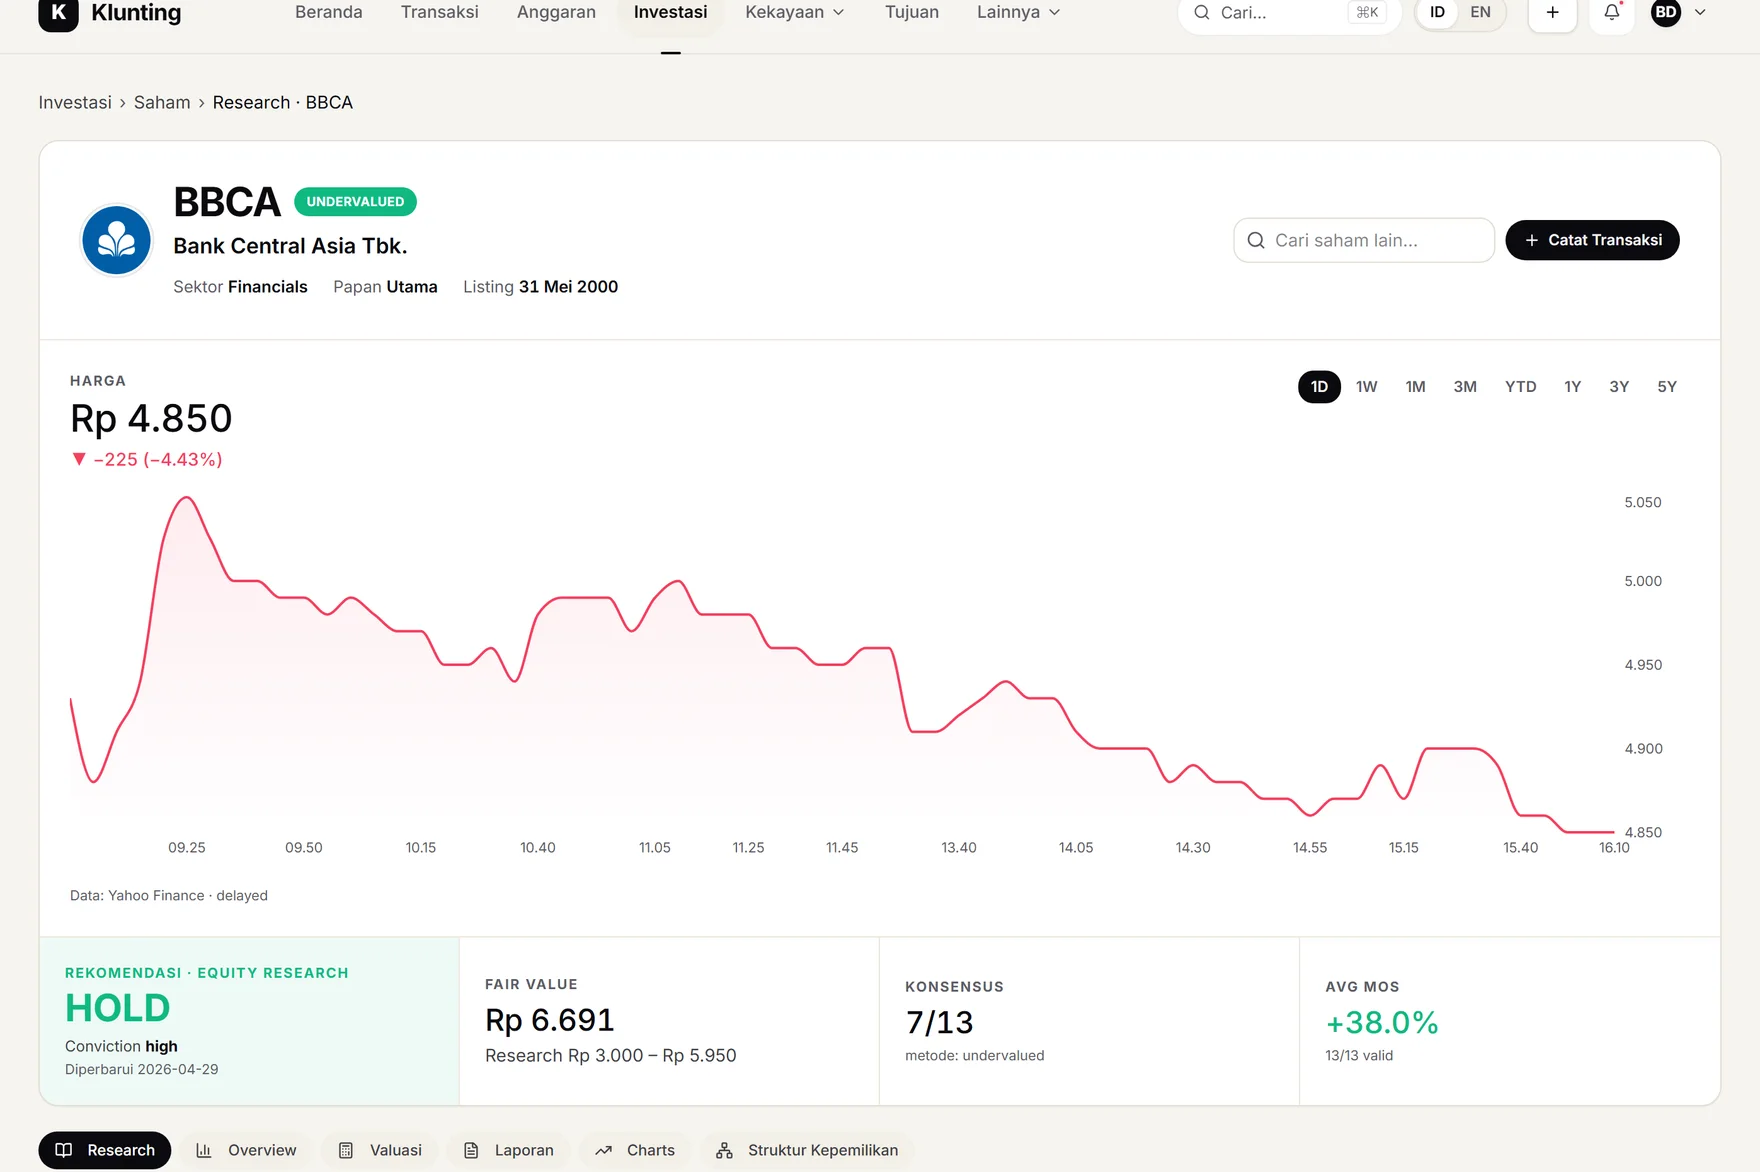
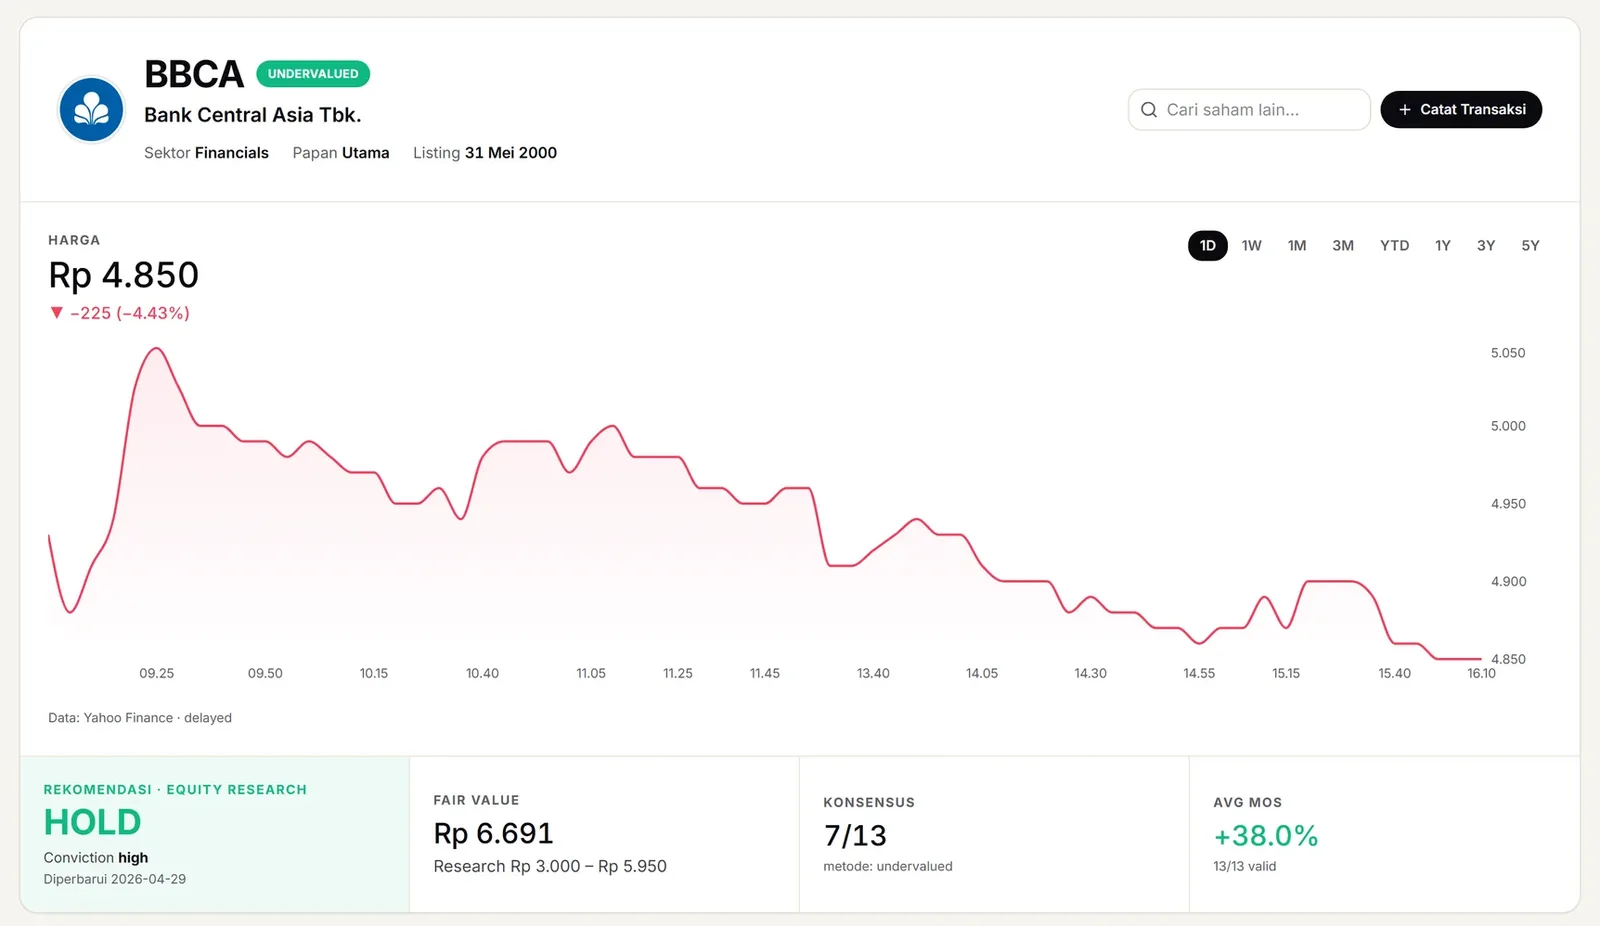
fix(landing): recrop shot riset — buang nav lama & potongan tanggung
Keluhan user: kartu shot bab Riset tumpul + kepotong. Akar: research.webp
(era 8 Jun) masih membawa TopNav lama (tile K hitam pra-rebrand) yang
kejepit di tepi atas, tab bar bawah terpotong setengah, dan kartu BBCA
di dalam gambar bersaing radius dengan frame landing. Crop ulang via
sharp ke kartu emiten + chart + strip valuasi (1600x926, 38KB dari 64KB).

diff --git a/src/app/page.tsx b/src/app/page.tsx
@@ -74,7 +74,9 @@ const CHAPTERS: ChapterData[] = [
       'Bandingkan 4 emiten: valuasi, skor Piotroski, tren 10 tahun',
       'Struktur kepemilikan ditelusuri sampai pemilik akhir',
     ],
-    shot: { src: '/features/research.webp', alt: 'Halaman riset saham Klunting: nilai wajar konsensus, margin of safety, dan rincian metode valuasi sebuah emiten IDX', w: 1600, h: 900 },
+    // research.webp di-recrop 2026-07-11: nav lama (tile "K") + tab bar
+    // kepotong dibuang — isi = kartu emiten + chart + strip valuasi.
+    shot: { src: '/features/research.webp', alt: 'Halaman riset saham Klunting: nilai wajar konsensus, margin of safety, dan rincian metode valuasi sebuah emiten IDX', w: 1600, h: 926 },
   },
   {
     kicker: 'Anggaran & arus kas', color: 'var(--c-violet)', ink: 'var(--c-violet-ink)',